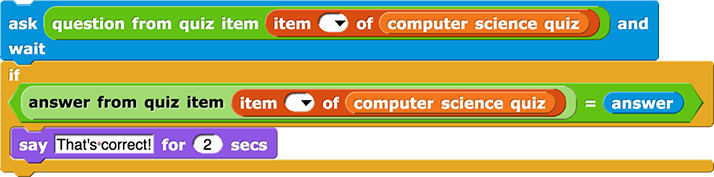
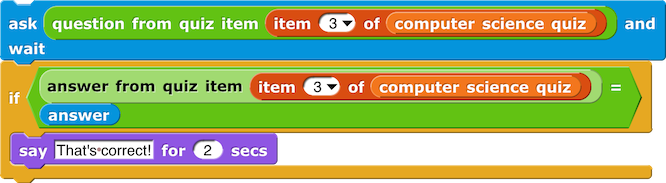
2.2 solutions
Also fixing and removing red boxes in the lab pages.

diff --git a/cur/programming/2-complexity/2-data-structures-art/2-quizzes.html b/cur/programming/2-complexity/2-data-structures-art/2-quizzes.html
@@ -20,7 +20,7 @@
         <div class="forYouToDo" id="first">
 			<ol>
                 <li><img class="inline" src="/bjc-r/img/icons/talk-with-your-partner.png" alt="Talk with Your Partner" title="Talk with Your Partner" />Decide what type of quiz you would like to build, and write three to five questions and their correct answers.</li>
-                <li><img class="inline" src="/bjc-r/img/icons/take-turns-speaking-mini.gif" alt="Take turns speaking" title="Take turns speaking">Read the following section, <em>clicking all the links</em> and carefully reading all the code as you go...</li>
+                <li><img class="inline" src="/bjc-r/img/icons/take-turns-speaking-mini.gif" alt="Take turns speaking" title="Take turns speaking">Read the following section, <em>clicking all the links</em> and carefully reading all the code as you go. (Don't build these in Snap<em>!</em>. You'll build your own quiz later on the page.)</li>
 			</ol>
 		</div>
         
@@ -46,7 +46,7 @@ if (item (1) of (item (3) of (computer science quiz)) = answer) {
             </div>
         </p>
         <div class="todo">AAP.1.D.3</div>
-        <div class="todo">Brian, please open the link just above this and the link just below. Why does the former ask item 3 and the latter ask item blank? Is that a mistake? They should both be asking about item 3 right? --MF, 1/8/20</div><p>
+        <p>
             But with nested lists (lists with sublists) it can be hard to keep track of the input numbers for <code>item of</code>, so <a href="#hint-useabstraction" data-toggle="collapse" title="a better way is to use abstraction to organize the quiz items">a better way is to <em>use abstraction</em> to organize the quiz items</a>. 
             <div id="hint-useabstraction" class="collapse">
                 <img class="indent" src="/bjc-r/img/2-complexity/quiz-questions-list-of-adts.png" alt="set (computer science quiz) to (list (question: (What is the computer science term for looping or repetition?) answer: (iteration)) (question: (What is the name for the abstraction in a program that can hold a value?) answer: (variable)) (question: (What kind of variable is available only in the part of the program where it is defined?) answer: (local variable)))" title="set (computer science quiz) to (list (question: (What is the computer science term for looping or repetition?) answer: (iteration)) (question: (What is the name for the abstraction in a program that can hold a value?) answer: (variable)) (question: (What kind of variable is available only in the part of the program where it is defined?) answer: (local variable)))">
@@ -63,22 +63,8 @@ if (answer from quiz item (item () of (computer science quiz)) = answer) {
         <p>
             This abstraction just hides the <code>list</code> and <code>item of</code> blocks, so it isn't complicated to build, but it can make your code <em>much</em> easier to write, read, and debug.<br />
         </p>
-        <div class="todo">Can we please revisit possible ways to abridge or break up the following vocab box? --MF, 8/22/19</div>
-        <div class="vocabFullWidth">
-            <ul>
-                <li>
-                    The <img class="inline" src="/bjc-r/img/2-complexity/quiz-item-constructor.png" alt="quiz item, question: () answer: ()" title="quiz item, question: () answer: ()" /> block is the <strong>constructor</strong>; it <em>constructs</em> the data structure.<br />
-                    <!--<img class="indent" src="/bjc-r/img/2-complexity/quiz-questions-constructor-definition.png" alt="quiz item, question: (question) answer: (answer) {report (list (question) (answer))}" title="quiz item, question: (question) answer: (answer) {report (list (question) (answer))}">-->
-                </li>
-                <li>
-                    The <img class="inline" src="/bjc-r/img/2-complexity/question-selector.png" alt="question from quiz item: ()" title="question from quiz item: ()"/> and <img class="inline" src="/bjc-r/img/2-complexity/answer-selector.png" alt="answer from quiz item: ()" title="answer from quiz item: ()"/> blocks are the <strong>selectors</strong>; they each <em>select</em> one piece of the data structure.<br />
-                    <!--<img class="indent" src="/bjc-r/img/2-complexity/question-definition.png" alt="question from quiz item: (quiz item) {report (item (1) of (quiz item)}" title="question from quiz item: (quiz item) {report (item (1) of (quiz item)}" />
-                    <img class="indent" src="/bjc-r/img/2-complexity/answer-definition.png" alt="answer from quiz item: (quiz item) {report (item (2) of (quiz item)}" title="answer from quiz item: (quiz item) {report (item (2) of (quiz item)}" />-->
-                </li>
-                <div class="comment">AAP.1.D.1</div>
-                <li>
-                    The constructor and selector together implement the <code>quiz item</code> <em>abstract data type</em>. An <strong>abstract data type</strong> (or <strong>ADT</strong>) is a custom data type that's meaningful to your program. It's not built into the language; you develop it as you code. This is an abstraction because it hides the details inside the constructor and selectors so that the programmer who uses a <code>quiz item</code> only has think about questions and answers and not about list indices.
-                </li>
+        <div class="vocabFullWidth"><strong>: Data Types</strong>
+<ul>
                 <li>
                     A <strong>data type</strong> is what kind of data something is (number, text string, list, etc.). For example, <em>number</em> is the data type for the first input to <img src="/bjc-r/img/blocks/item.png" height="35" alt="item (1) of ()" title="item (1) of ()"> and <em>list</em> is the the data type for its second input.
                 </li>
@@ -89,19 +75,37 @@ if (answer from quiz item (item () of (computer science quiz)) = answer) {
                     <img class="indent" src="/bjc-r/img/2-complexity/isa-menu.png" alt="primitive types: number, text, Boolean, list, sprite, command, reporter, predicate" title="primitive types: number, text, Boolean, list, sprite, command, reporter, predicate"/>
                     </div>
                 </li>
-                <div class="comment">DAT-1.A.5</div>
-                <li><strong>Data abstraction</strong> is the creation and use of abstract data types in a program.</li>
-            </ul>
+          </ul>
+        </div>
+        <div class="vocabFullWidth"><strong>: Abstract Data Types</strong>
+<ul>
+                <div class="comment">AAP.1.D.1</div>
+                <li>
+                    An <strong>abstract data type</strong> (or <strong>ADT</strong>) is a custom data type that's meaningful to your program. It's not built into the language; you develop it as you code. This is an abstraction because it hides the details inside the constructor and selectors so that the programmer who uses a <code>quiz item</code> has to think only about questions and answers, not about list indices.
+                </li>
             <div class="endnote">
                 <p>The word "abstract" is often used casually to mean something <em>harder</em> to understand or more complex, but in computer science, its meaning is almost the opposite. ADTs are things that you, the programmer, create to make your program <em>easier</em> for you and others to read, debug, and improve.</p>
             </div>        
+      <li>
+                    The <img class="inline" src="/bjc-r/img/2-complexity/quiz-item-constructor.png" alt="quiz item, question: () answer: ()" title="quiz item, question: () answer: ()" /> block is the <strong>constructor</strong>; it <em>constructs</em> one example of the data structure. By naming the pieces of the structure, the constructor makes it certain that every time you use it, you build the structure in the right order.<br />
+                    <!--<img class="indent" src="/bjc-r/img/2-complexity/quiz-questions-constructor-definition.png" alt="quiz item, question: (question) answer: (answer) {report (list (question) (answer))}" title="quiz item, question: (question) answer: (answer) {report (list (question) (answer))}">-->
+    </li>
+                <li>
+                    The <img class="inline" src="/bjc-r/img/2-complexity/question-selector.png" alt="question from quiz item: ()" title="question from quiz item: ()"/> and <img class="inline" src="/bjc-r/img/2-complexity/answer-selector.png" alt="answer from quiz item: ()" title="answer from quiz item: ()"/> blocks are the <strong>selectors</strong>; they each <em>select</em> one piece of the data structure.<br />
+                    <!--<img class="indent" src="/bjc-r/img/2-complexity/question-definition.png" alt="question from quiz item: (quiz item) {report (item (1) of (quiz item)}" title="question from quiz item: (quiz item) {report (item (1) of (quiz item)}" />
+                    <img class="indent" src="/bjc-r/img/2-complexity/answer-definition.png" alt="answer from quiz item: (quiz item) {report (item (2) of (quiz item)}" title="answer from quiz item: (quiz item) {report (item (2) of (quiz item)}" />-->
+                </li>
+                The constructor and selector together implement the <code>quiz item</code> <em>abstract data type</em>. 
+                <div class="comment">DAT-1.A.5</div>
+                <li><strong>Data abstraction</strong> is the creation and use of abstract data types in a program.</li>
+          </ul>
         </div>
-        <div class="todo">The constructor makes it certain that every time you use it, you build the thing in the right order.<div class="todo">Why is this here? Did we want to add it to the white text? --MF, 1/8/20</div></div>
         
         <div class="forYouToDo">
-	    <div class="todo">I wish we could find a way to combine this with the vocab box above.  As it is, first we tell them in white what an ADT is and what its pieces are, then we tell them again in gray, and then we tell them for a <em>third</em> time in green. -bh<p>It sounds like that repetition bothers you... I kind of like it. --MF, 7/5/19</p></div>
             <ol start="3">
-                <div class="comment">AAP-1.D</div>
+            <li><div class="newProject">	<span class="text">"U2L2-Quiz"</span><img src="/bjc-r/img/icons/new-project-called.png" alt="Start a New Project called U2L2-Quiz" title="Start a New Project called U2L2-Quiz" /></div></li>
+
+              <div class="comment">AAP-1.D (Note that the exercise number has changed! -bh)</div>
                 <li>Build the custom <code>quiz item</code> abstract data type (both the constructor and the two selectors).</li>
                 <div class="narrower">
                     <h4><strong>Specifying an Input Type</strong></h4>
@@ -118,7 +122,8 @@ if (answer from quiz item (item () of (computer science quiz)) = answer) {
                         </ol>
                     </p>
                 </div>
-                <li>Create a global variable to store your quiz items and initialize it as a list using your constructor. (Don't type everything again; use copy and paste.)</li>
+                <li>Create a global variable to store your quiz items and initialize it as a list of items, using your constructor where appropriate.</li>
+                <img class="imageRight" src="/bjc-r/img/icons/save-now.png" alt="Save your work" title="Save your work" />
                 <li>Test both the selectors for different items in your list of quiz items, and debug any problems.</li>
                 <li>
                     <!-- Question 1-->

diff --git a/cur/programming/2-complexity/2-data-structures-art/functional-programming.html b/cur/programming/2-complexity/2-data-structures-art/functional-programming.html
@@ -23,17 +23,19 @@
 					<li><img src="/bjc-r/img/2-complexity/plurals-5.png"></li>
 				</ol>
 				You haven't met <code>map</code> yet.  It's a higher order function that creates a new list, the same length as its input list, in which each item is computed by applying its input function to the corresponding item of the input list.
+			</li><li>
 				<ol type="a">
 				<img class="imageRight" src="/bjc-r/img/icons/talk-with-your-partner.png">
 					<li>After each of these scripts, what is the value of <var>plural shopping list</var>?</li>
-					<li>After each of these scripts, what is the value of <var>shopping list</var>?
+					<li>After each of these scripts, what is the value of <var>shopping list</var>?</li>
 				</ol>
 			</li>
+            </ol>
 		</div>
 		<p>The point of that exercise is that for the first three scripts, the <em>imperative programming</em> ones, it takes careful attention to be sure what the final value of <var>shopping list</var> is.  (In one case it's the same as before; in one case it's the same as <var>plural shopping list</var>; in one case the answer depends on whether you're programming in Snap<i>!</i> or in AP-language.  (See the gray box just before the "Functional Programming" header.)</p>
 		<p>By contrast, in the last two scripts it should be easy to see that no change is made to <var>shopping list</var>.  That's because these last two scripts use functional programming style:  You create a new list without any <code>replace</code> or <code>add</code> instructions.</p>
 		<p>You have to recognize the imperative programming style for the exam.  (You will not be asked to <em>write</em> code on the exam.)  But you should also be comfortable with the functional style.  in particular, we hope you'll enjoy the elegance of the fifth script, a one-liner that creates the list of plurals without changing the original list.</p>
-		<div class="takeNote">At one time, functional programming was viewed by "real" programmers as something of interest only to computer science professors.  But today it's a favored way to program because of parallel-processing hardware, either with both racks full of computers or with multicore processor chips that include four or eight processors inside a single chip.  The reason is that with multiple processes running in parallel, it's possible for two of them to be trying to modify the same variable at the same time, with bad results.  But if the program is written functionally, nothing is ever modified, so that can't happen.  There are <em>functional languages</em> in which there are no equivalents to <code>set</code> or <code>replace</code>.
+		<div class="takeNote">At one time, functional programming was viewed by "real" programmers as something of interest only to computer science professors.  But today it's a favored way to program because of parallel-processing hardware, either with  racks full of computers or with multicore processor chips that include four or eight processors inside a single chip.  The reason is that with multiple processes running in parallel, it's possible for two of them to be trying to modify the same variable at the same time, with bad results.  But if the program is written functionally, nothing is ever modified, so that can't happen.  There are <em>functional languages</em> in which there are no equivalents to <code>set</code> or <code>replace</code>.
 		</div>
 
         <div class="takeItFurther">

diff --git a/docs/style_guide.html b/docs/style_guide.html
@@ -297,7 +297,7 @@ isn't something you can type into Snap!.  And every so often (once per unit?) we
                 <img class="imageRight" src="/bjc-r/img/icons/talk-with-another-pair.png" alt="Talk with Another Pair" title="Talk with Another Pair" />
                 <img class="imageRight" src="/bjc-r/img/icons/tough-stuff.png" alt="Tough Stuff" title="Tough Stuff" /><img class="imageRight" src="/bjc-r/img/icons/share-your-work.png" alt="Share Your Work" title="Share Your Work" />
                 <img class="imageRight" src="/bjc-r/img/icons/predict.png" alt="Predict What Will Happen" title="Predict What Will Happen" />
-                <img class="imageRight" src="/bjc-r/img/icons/save-now.png" alt="Now Is a Good Time to Save" title="Now Is a Good Time to Save" />
+                <img class="imageRight" src="/bjc-r/img/icons/save-now.png" alt="Save your work" title="Save your work" />
                 <img class="imageRight" src="/bjc-r/img/icons/write-out-thoughts.png" alt="Write Out Your Thoughts" title="Write Out Your Thoughts" />
                 <img class="imageRight" src="/bjc-r/img/icons/write-in-journal.png" alt="Write In Your Journal" title="Write In Your Journal" />
                 <img class="imageRight" src="/bjc-r/img/icons/headphones.png" alt="Set Up Your Headphones or Speakers" title="Set Up Your Headphones or Speakers" />

diff --git a/cur/programming/2-complexity/2-data-structures-art/3-traversing-list.html b/cur/programming/2-complexity/2-data-structures-art/3-traversing-list.html
@@ -19,6 +19,9 @@
             </p>
         </div>
         
+        <p>If it's not already open, open your project U2L2-Quiz.</p>
+
+        
         <div class="dialogue"> <a name="seta" class="anchor">&nbsp;</a>
             <div class="stagedir">
                 The students are considering how to use their abstract data type as they develop the code for their project. 
